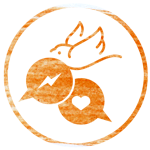
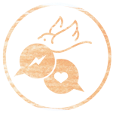
Ajout picto sur les actus

Changed region(s): [[0.1327, 0.1327, 0.823, 0.8496], [0.4513, 0.0531, 1.0, 0.9823], [0.0265, 0.0265, 0.4513, 0.9558]]

diff --git a/tools/bazar/templates/liste_actus.tpl.html b/tools/bazar/templates/liste_actus.tpl.html
@@ -9,15 +9,23 @@
 
     $contenu = $GLOBALS['wiki']->Format($fiche['bf_contenu']);
 
-    if (!file_exists('cache/image_180_'.$fiche['imagebf_image'])) 
-      $image = redimensionner_image(
-        'files/'.$fiche['imagebf_image'], 
-        'cache/image_180_'.$fiche['imagebf_image'], 
-        180, 
-        180
-      ); 
-    else 
-      $image = 'cache/image_180_'.$fiche['imagebf_image'];
+    if(isset($fiche['imagebf_image'])) {
+      if (!file_exists('cache/image_230_'.$fiche['imagebf_image'])) 
+        $image = redimensionner_image(
+          'files/'.$fiche['imagebf_image'], 
+          'cache/image_230_'.$fiche['imagebf_image'], 
+          230, 
+          230
+        ); 
+      else {
+        $image = 'cache/image_230_'.$fiche['imagebf_image'];
+        $image = 
+          "<img class='vignette_actu' src='"
+          .$image
+          ."' alt='vignette article' />";
+      }
+    }
+    else $image = "";
 
     $titre = htmlspecialchars(
       $fiche['bf_titre'], 
@@ -26,10 +34,10 @@
     );
   ?>
 
-  <div class='actu'>
+  <div class='actu picto_action'>
   <h2><?php echo $fiche['bf_titre']; ?></h2>
   <p class='actu_info'>Le <?php echo $date; ?></p>
-  <img class='vignette_actu' src='<?php echo $image; ?>' alt='vignette article'>
+  <?php echo $image; ?>
   <p class='actu_contenu'><?php echo $contenu; ?></p>
   <!--<p class="actu_auteur"><?php echo $fiche['createur']; ?></p>-->
   </div>

diff --git a/enviescolaire/styles/default.css b/enviescolaire/styles/default.css
@@ -122,7 +122,15 @@ p.actu_info {
 
 .vignette_actu {
 	float: right;
-	margin: 10px 0 10px 10px;
+	margin: 0 0 0 20px;
+}
+
+.actu * {
+	z-index: 100;
+}
+
+.picto_action {
+	background: url(../images/picto-action.png) top right no-repeat;
 }
 
 /*****************************************************************************
